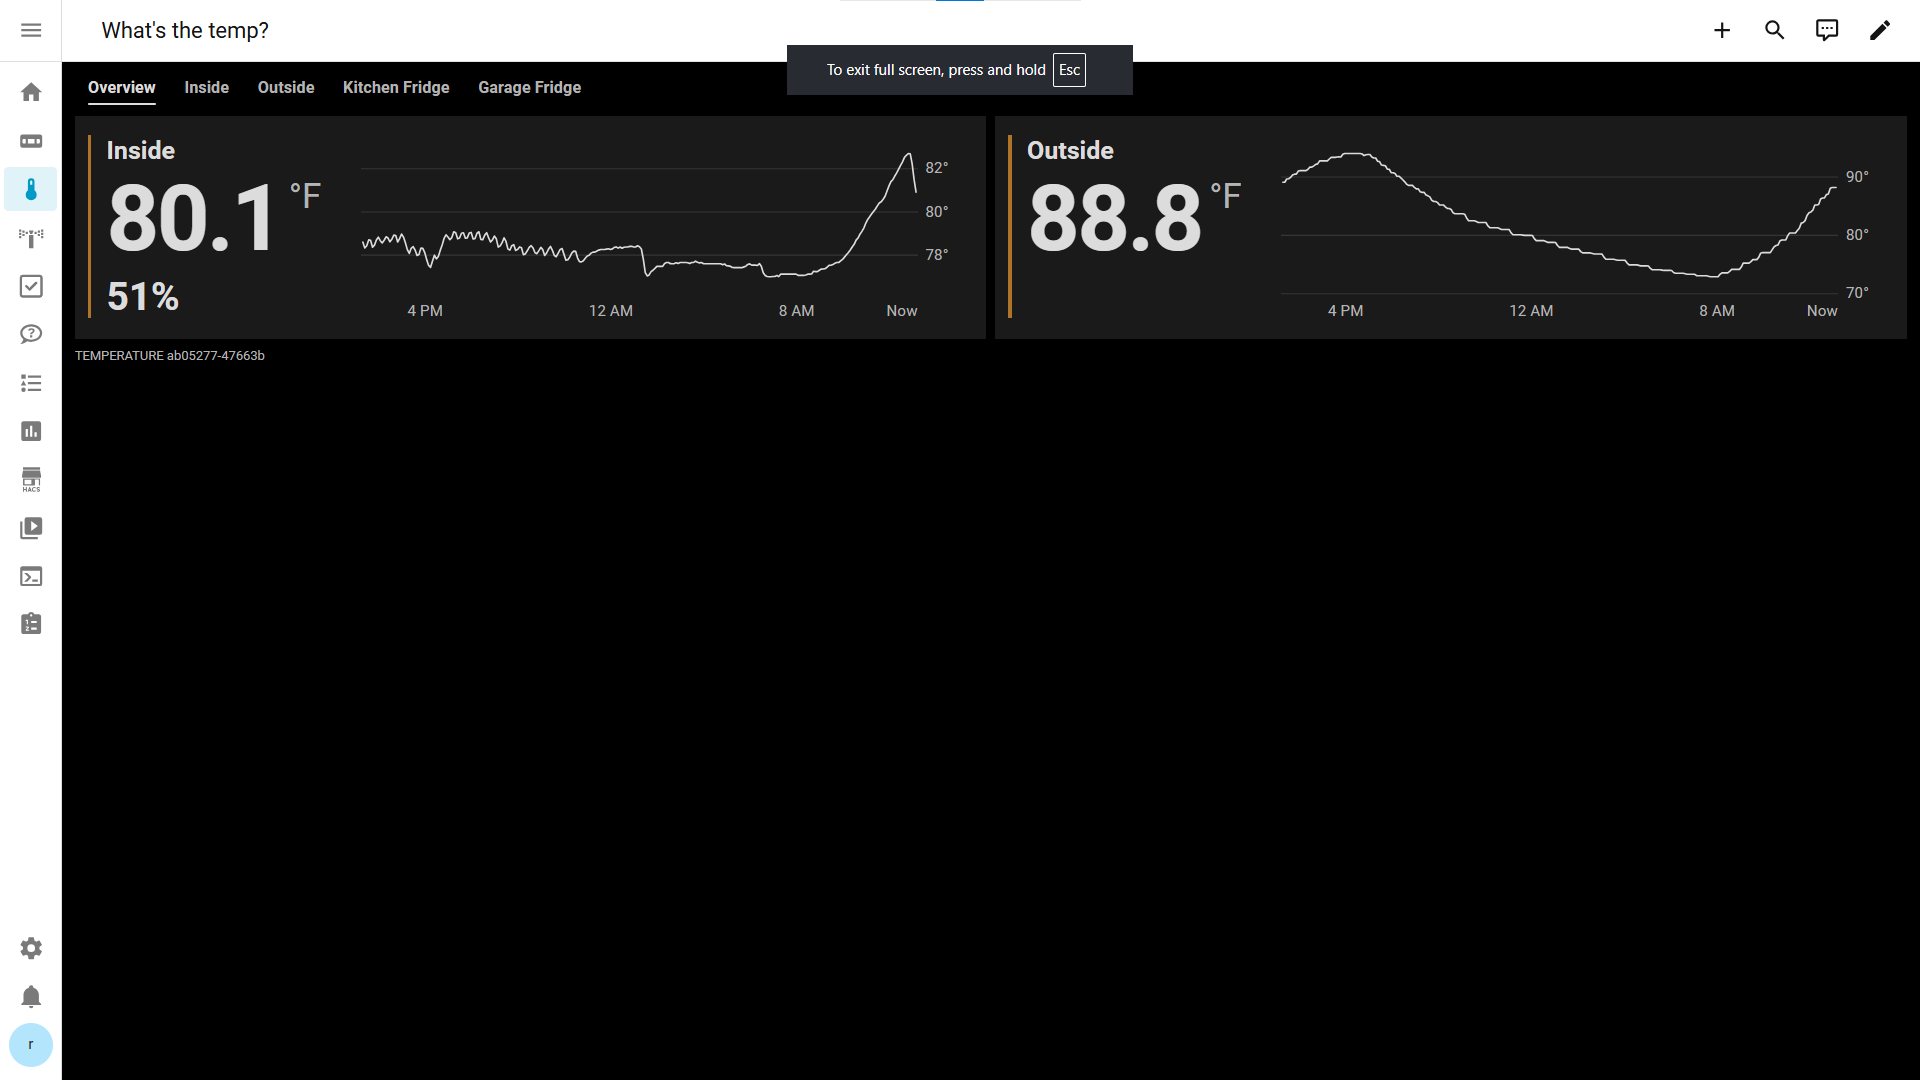
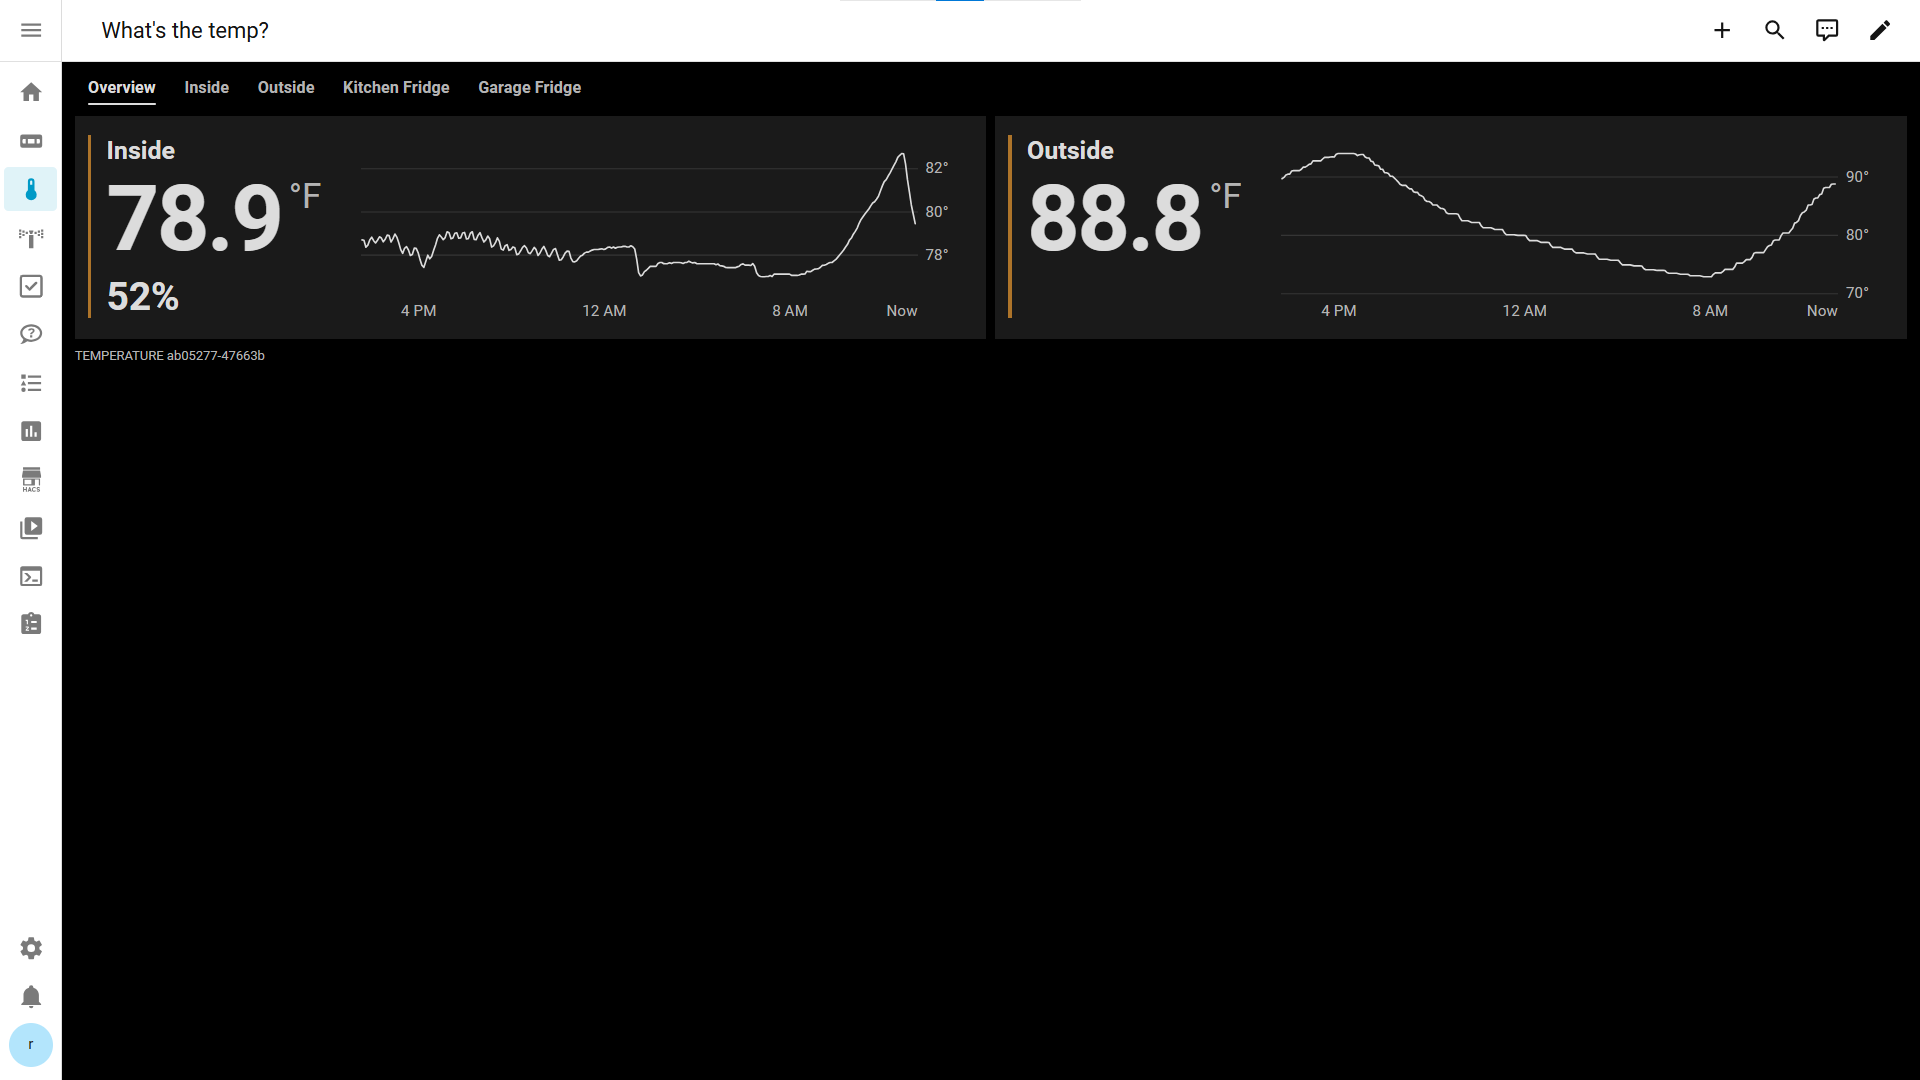
Replace overview screenshot in README
docs/images/temp1.png is replaced with a new screenshot of the Overview
tab without the browser's full-screen notice. The README alt text now
matches its readings (Inside 78.9 °F, 52%) and the caption no longer
mentions the notice.

diff --git a/README.md b/README.md
@@ -13,14 +13,13 @@ theme (light or dark), and needs no extra integrations or helper entities.
 
 ### Grouped card with averages
 
-![A grouped Temperature Card on a dark dashboard, Overview tab selected: an "Inside" tile reading 80.1 °F and 51% and an "Outside" tile reading 88.8 °F, each with a 24-hour history graph labelled 4 PM, 12 AM, 8 AM and Now](docs/images/temp1.png)
+![A grouped Temperature Card on a dark dashboard, Overview tab selected: an "Inside" tile reading 78.9 °F and 52% and an "Outside" tile reading 88.8 °F, each with a 24-hour history graph labelled 4 PM, 12 AM, 8 AM and Now](docs/images/temp1.png)
 
 The **Overview** tab of a card with five tabs (Overview, Inside, Outside,
 Kitchen Fridge, Garage Fridge). "Inside" and "Outside" are **roll-up** tiles:
 each shows the average of several sensors, with an averaged 24-hour history
 graph. The colored bar on the left of each tile reflects the current
-temperature. The small text under the card is the build tag. (The dark banner
-at the top is the browser's own full-screen notice, not part of the card.)
+temperature. The small text under the card is the build tag.
 
 ### Individual sensors with history and battery icons
 
